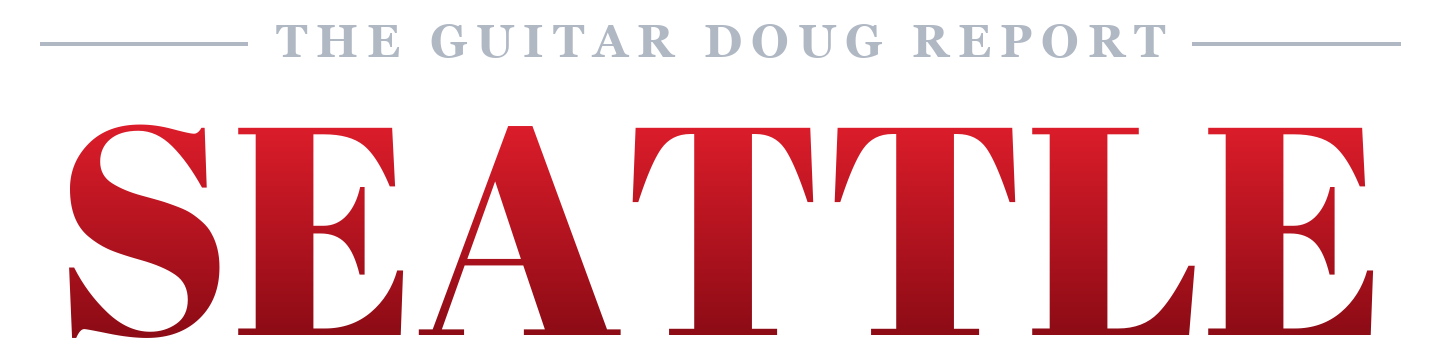
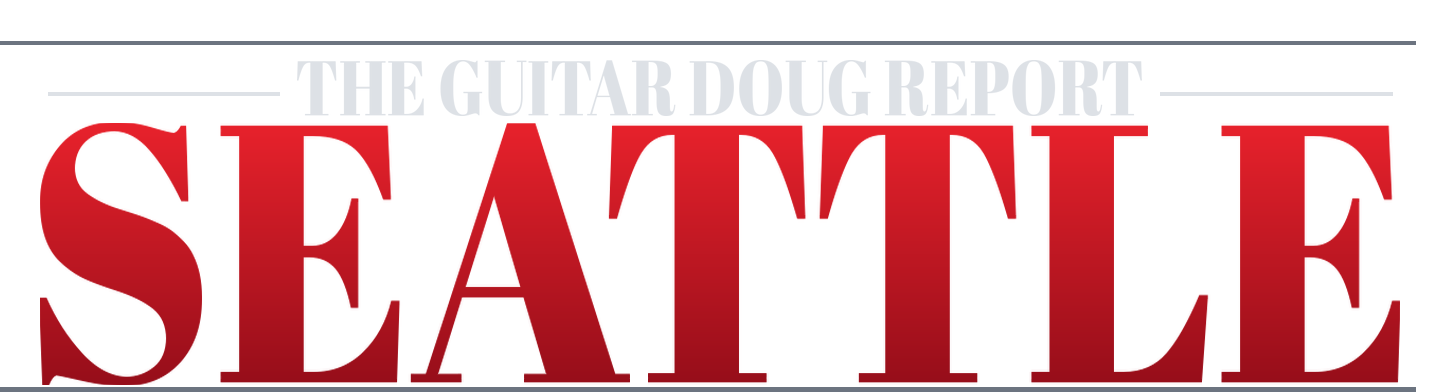
Masthead lettering now uses the same typeface as New York City Scream (Abril Fatface, red gradient, silver top line)
Claude-Session: https://claude.ai/code/session_01Rvhfw5TtgKAkgbhKuBbn5L

Changed region(s): [[0.0, 0.0578, 1.0, 1.0], [0.0938, 0.5491, 0.125, 0.6069]]

diff --git a/sw.js b/sw.js
@@ -1,5 +1,5 @@
 /* Rhode Island Hurricane app: fresh news first, saved copy when offline. */
-const V='sea-v2608';
+const V='sea-v2609';
 const CORE=['/','/img/masthead.png'];
 self.addEventListener('install',e=>{e.waitUntil(caches.open(V).then(c=>c.addAll(CORE)).catch(()=>{}));self.skipWaiting();});
 self.addEventListener('activate',e=>{e.waitUntil(caches.keys().then(ks=>Promise.all(ks.filter(k=>k!==V).map(k=>caches.delete(k)))).then(()=>self.clients.claim()));});

diff --git a/index.html b/index.html
@@ -1318,7 +1318,7 @@ h2.room{text-shadow:0 2px 0 #0D0D0F,0 0 30px rgba(13,13,15,.7)!important;filter:
 <div class="wrap">
   <header class="mast">
     <div>
-      <h1 class="logo lgimg"><img src="img/masthead.png?v=11" alt="The Guitar Doug Report, Seattle" width="1440" height="346"></h1>
+      <h1 class="logo lgimg"><img src="img/masthead.png?v=12" alt="The Guitar Doug Report, Seattle" width="1440" height="392"></h1>
       
       
     </div>
